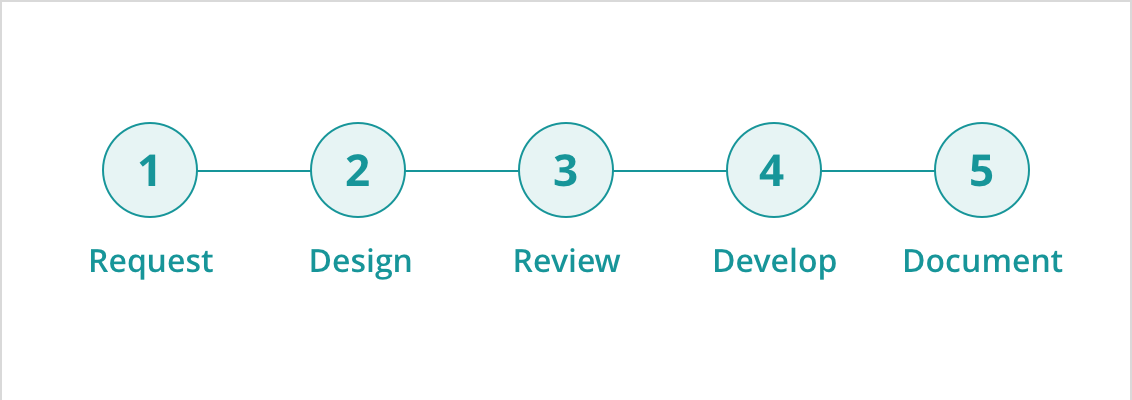
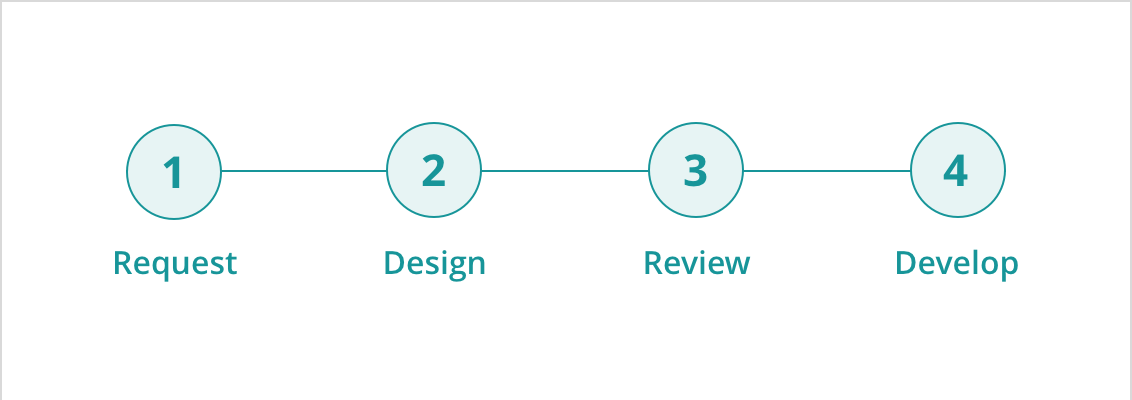
update omg and copy

diff --git a/introduction.md b/introduction.md
@@ -46,16 +46,23 @@ Our components are designed to be:
 - **Creates a more coherent user experience**  
    Having multiple designers working together on a project could easily lead to a disjointed user experience. Following a unified design system keeps the design consistent throughout the user journey.
 
-- **Enables teams to focus on solving greater problems **  
+- **Enables teams to focus on solving greater problems**  
    Designers will have more room for creativity and innovation with more time freed up from nudging pixels. Developers will be able to work more efficiently using the code package that enables updates at a global scale. With greater efficiency, teams can truly be agile.
 
 
 ## Process
 
-Our designs evolve over time as we improve the usability and quality of the components. Here is our process for updating the components:
 
+![Process]({{site.baseurl}}/img/Process@2.png)
 
-1. A consumer emails the [UXF Design Team](mailto:uxf-design@pearson.com) with a brief description of the needs.
-2. The UX Framework Design Team collaborates with that consumer to design the new functionality or modify the existing component and create documentation for reuse.
-3. The design goes through the governance review to ensure it meets the requirements from the [Component Quality Checklist]({{site.baseurl}}/membership-spec).
-4. The UX Framework Development Team or the consumer builds the functionality and creates the documentation for reuse.
+1. **Request**   
+A consumer emails the [UXF Design Team](mailto:uxf-design@pearson.com) with a brief description of the needs.
+
+2. **Design**  
+The UX Framework Design Team collaborates with that consumer to design the new functionality or modify the existing component and create documentation for reuse.
+
+3. **Review**  
+The design goes through the governance review to ensure it meets the requirements from the [Component Quality Checklist]({{site.baseurl}}/membership-spec).
+
+4. **Develop**  
+The UX Framework Development Team or the consumer builds the functionality and creates the documentation for reuse.
